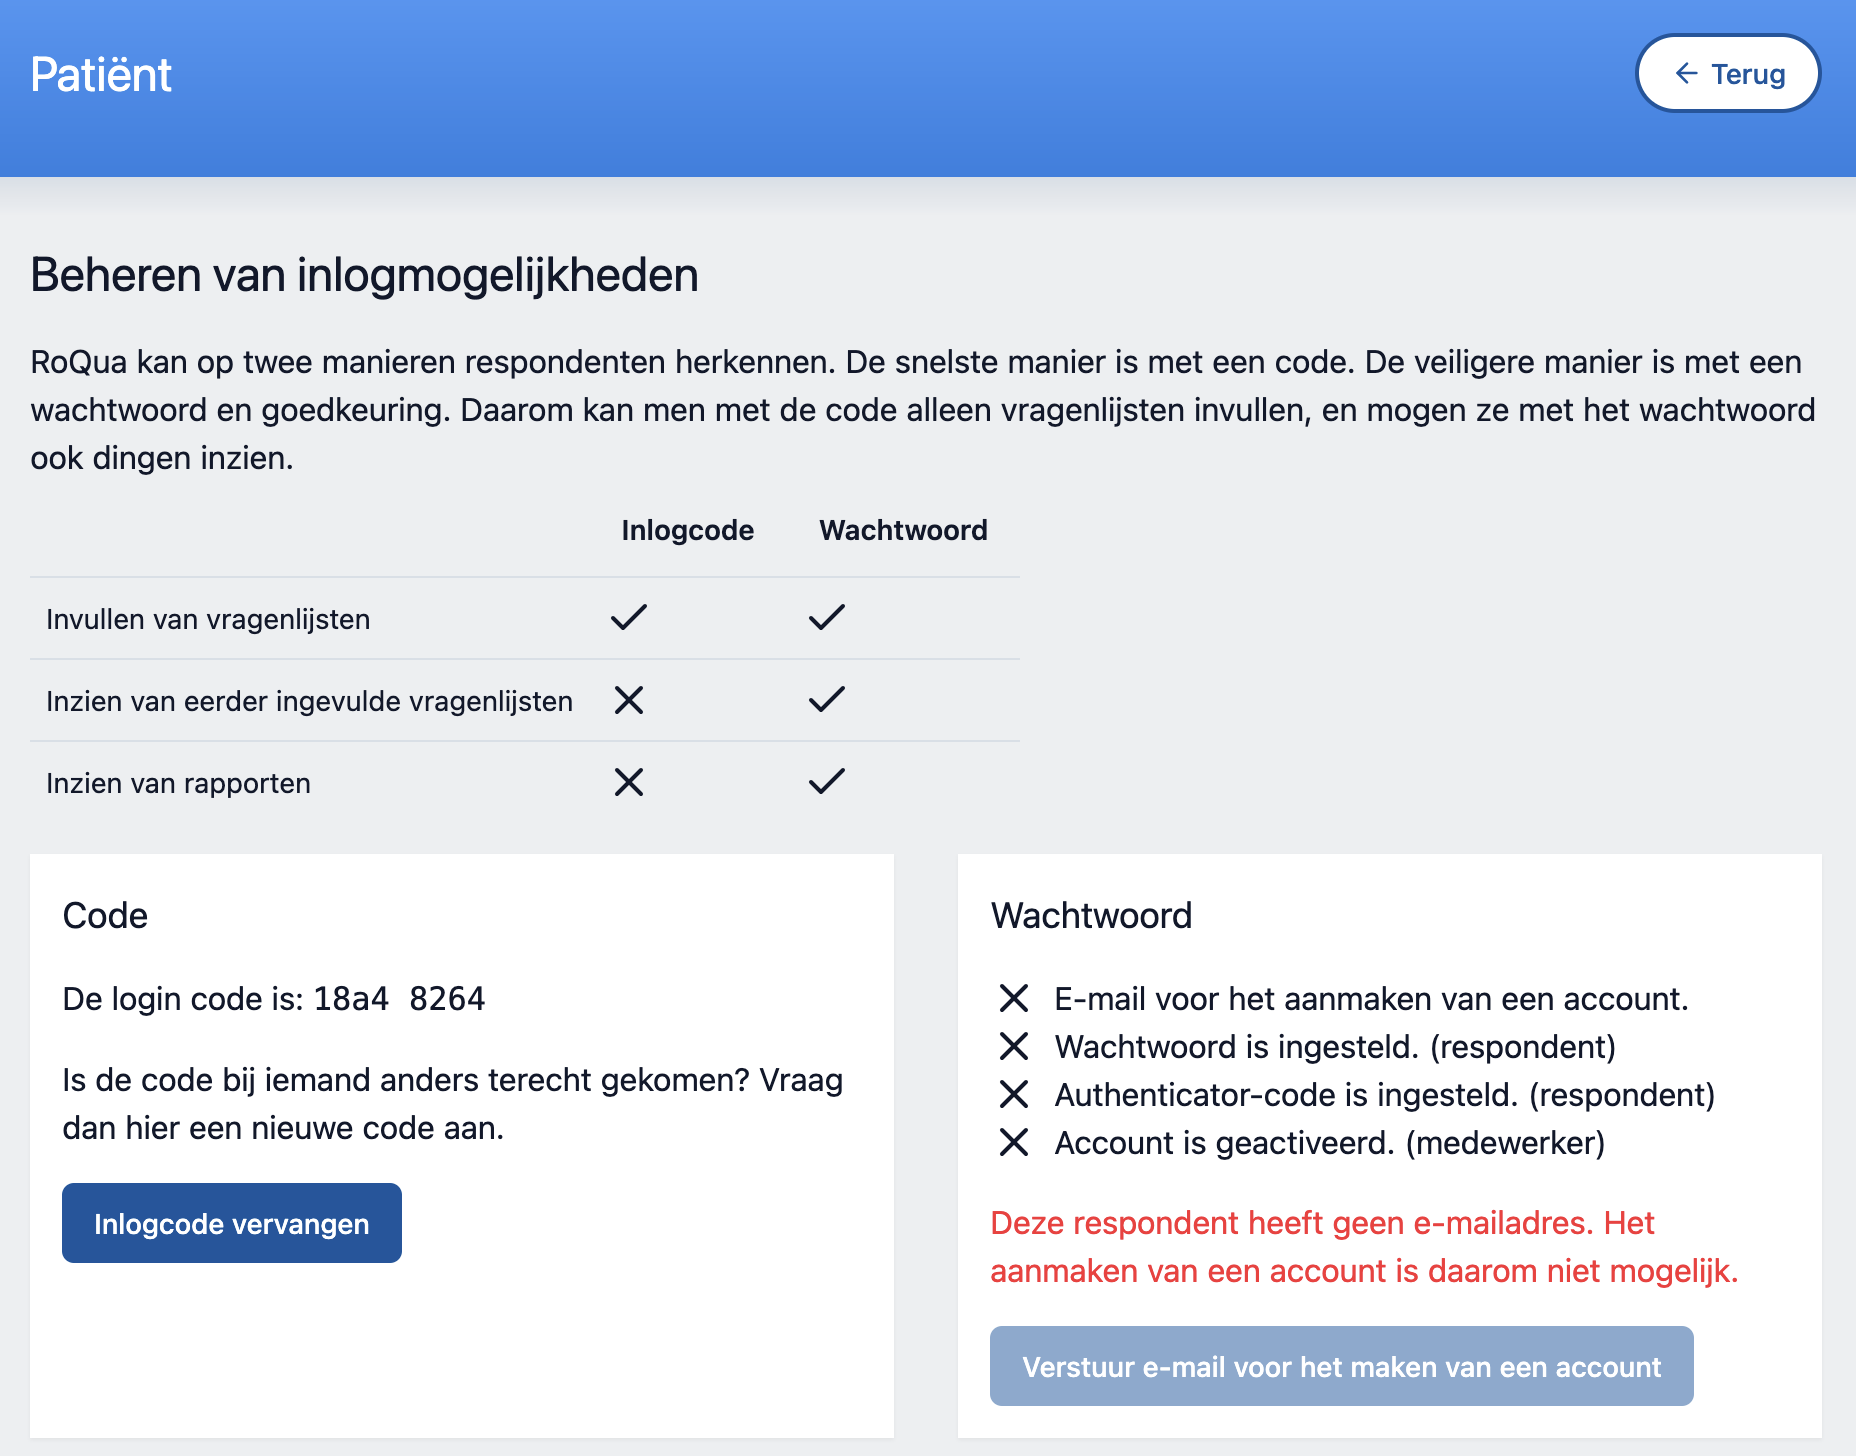
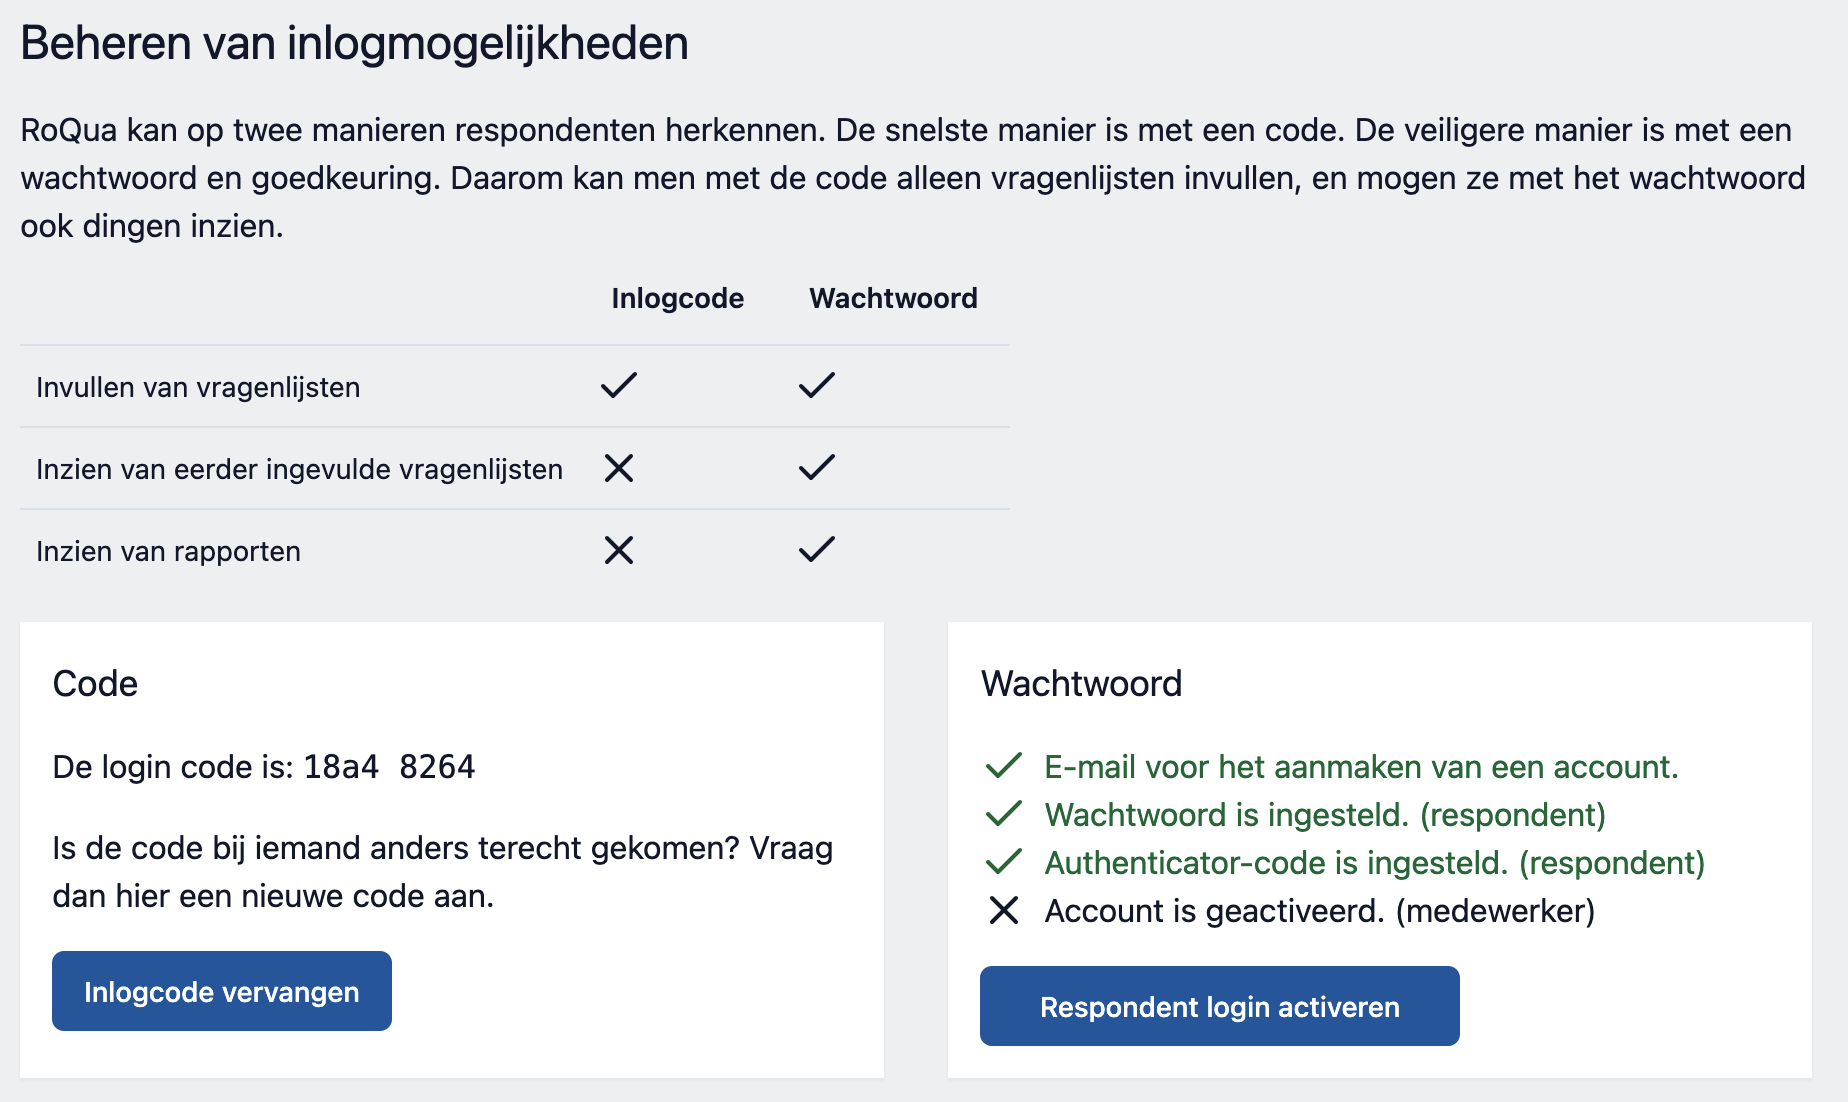
Resolved PR comments

diff --git a/docs/02-epd/10-client_portal_login.md b/docs/02-epd/10-client_portal_login.md
@@ -1,12 +1,12 @@
-# Client Portal Login
+# Client respondent login
 
-Vanaf nu kunnen respondenten ook inloggen via een wachtwoord op het cliënten portaal. Dit brengt extra voordelen met zich mee, zoals het inzien van ingevulde antwoorden van vragenlijsten, als het inzien van rapporten.
+Respondenten kunnen ook inloggen via een wachtwoord op het cliënten portaal. Dit brengt extra voordelen met zich mee, zoals het inzien van ingevulde vragenlijsten en rapporten. Echter staat deze optie niet standaard aangevinkt. Om dit aan te zetten moet dit ingesteld worden bij de organizatie settings van uw organizatie.
 
-Om naar het cliënten portaal te gaan, logt u in op:
+Om naar het cliënten portaal te gaan, logt een patient in op:
 https://rom.roqua.nl/client/login
 <screenshot src="/screenshots/client_portal_login.png" />
 
-Voordat een respondent toegang kan krijgen, moet deze eerst een account toegediend krijgen van een behandelaar. Hieronder wordt uitgelegd hoe je als behandelaar een account kan toedienen aan een respondent.
+Voordat een respondent toegang kan krijgen, moet deze eerst een account toegediend krijgen van een behandelaar. Hieronder wordt uitgelegd hoe je als behandelaar een account kan aanmaken voor een respondent. Dit is op dit moment nog een beetje complex in verband met de veiligheid en de mogelijkheden van ons systeem, hiervoor onze excuses.
 
 Wanneer u op het EPD bent, kunt u linksboven op het potlood icoontje klikken om naar de pagina te gaan om dossiergegevens bij te werken.
 <screenshot src="/screenshots/client_portal_navbar.png" />
@@ -27,9 +27,9 @@ Eenmaal aangemaakt, dan wordt de respondent doorverwezen naar de login pagina. D
 <screenshot src="/screenshots/client_portal_login_3.png" />
 
 Na het instellen van een 2-factor authenticatie, wordt de gebruiker naar het portaal doorgestuurd, maar heeft de respondent nog geen toegang. De respondent moet namelijk (als extra verificatie) nog een goedkeuring krijgen van de behandelaar. Dit gebeurt weer op dezelfde 'beheer login' pagina op het EPD. Klik hier op 'Respondent login activeren'.
-<screenshot src="/screenshots/client_portal_manage_login_4.png" />
+<screenshot src="/screenshots/client_portal_manage_login_2.png" />
 
 Een respondent account kan op dezelfde manier ook weer gedeactiveerd worden.
-<screenshot src="/screenshots/client_portal_manage_login_5.png" />
+<screenshot src="/screenshots/client_portal_manage_login_3.png" />
 
 Nadat een respondent login is geactiveerd kan de respondent gebruik maken van de login features.
